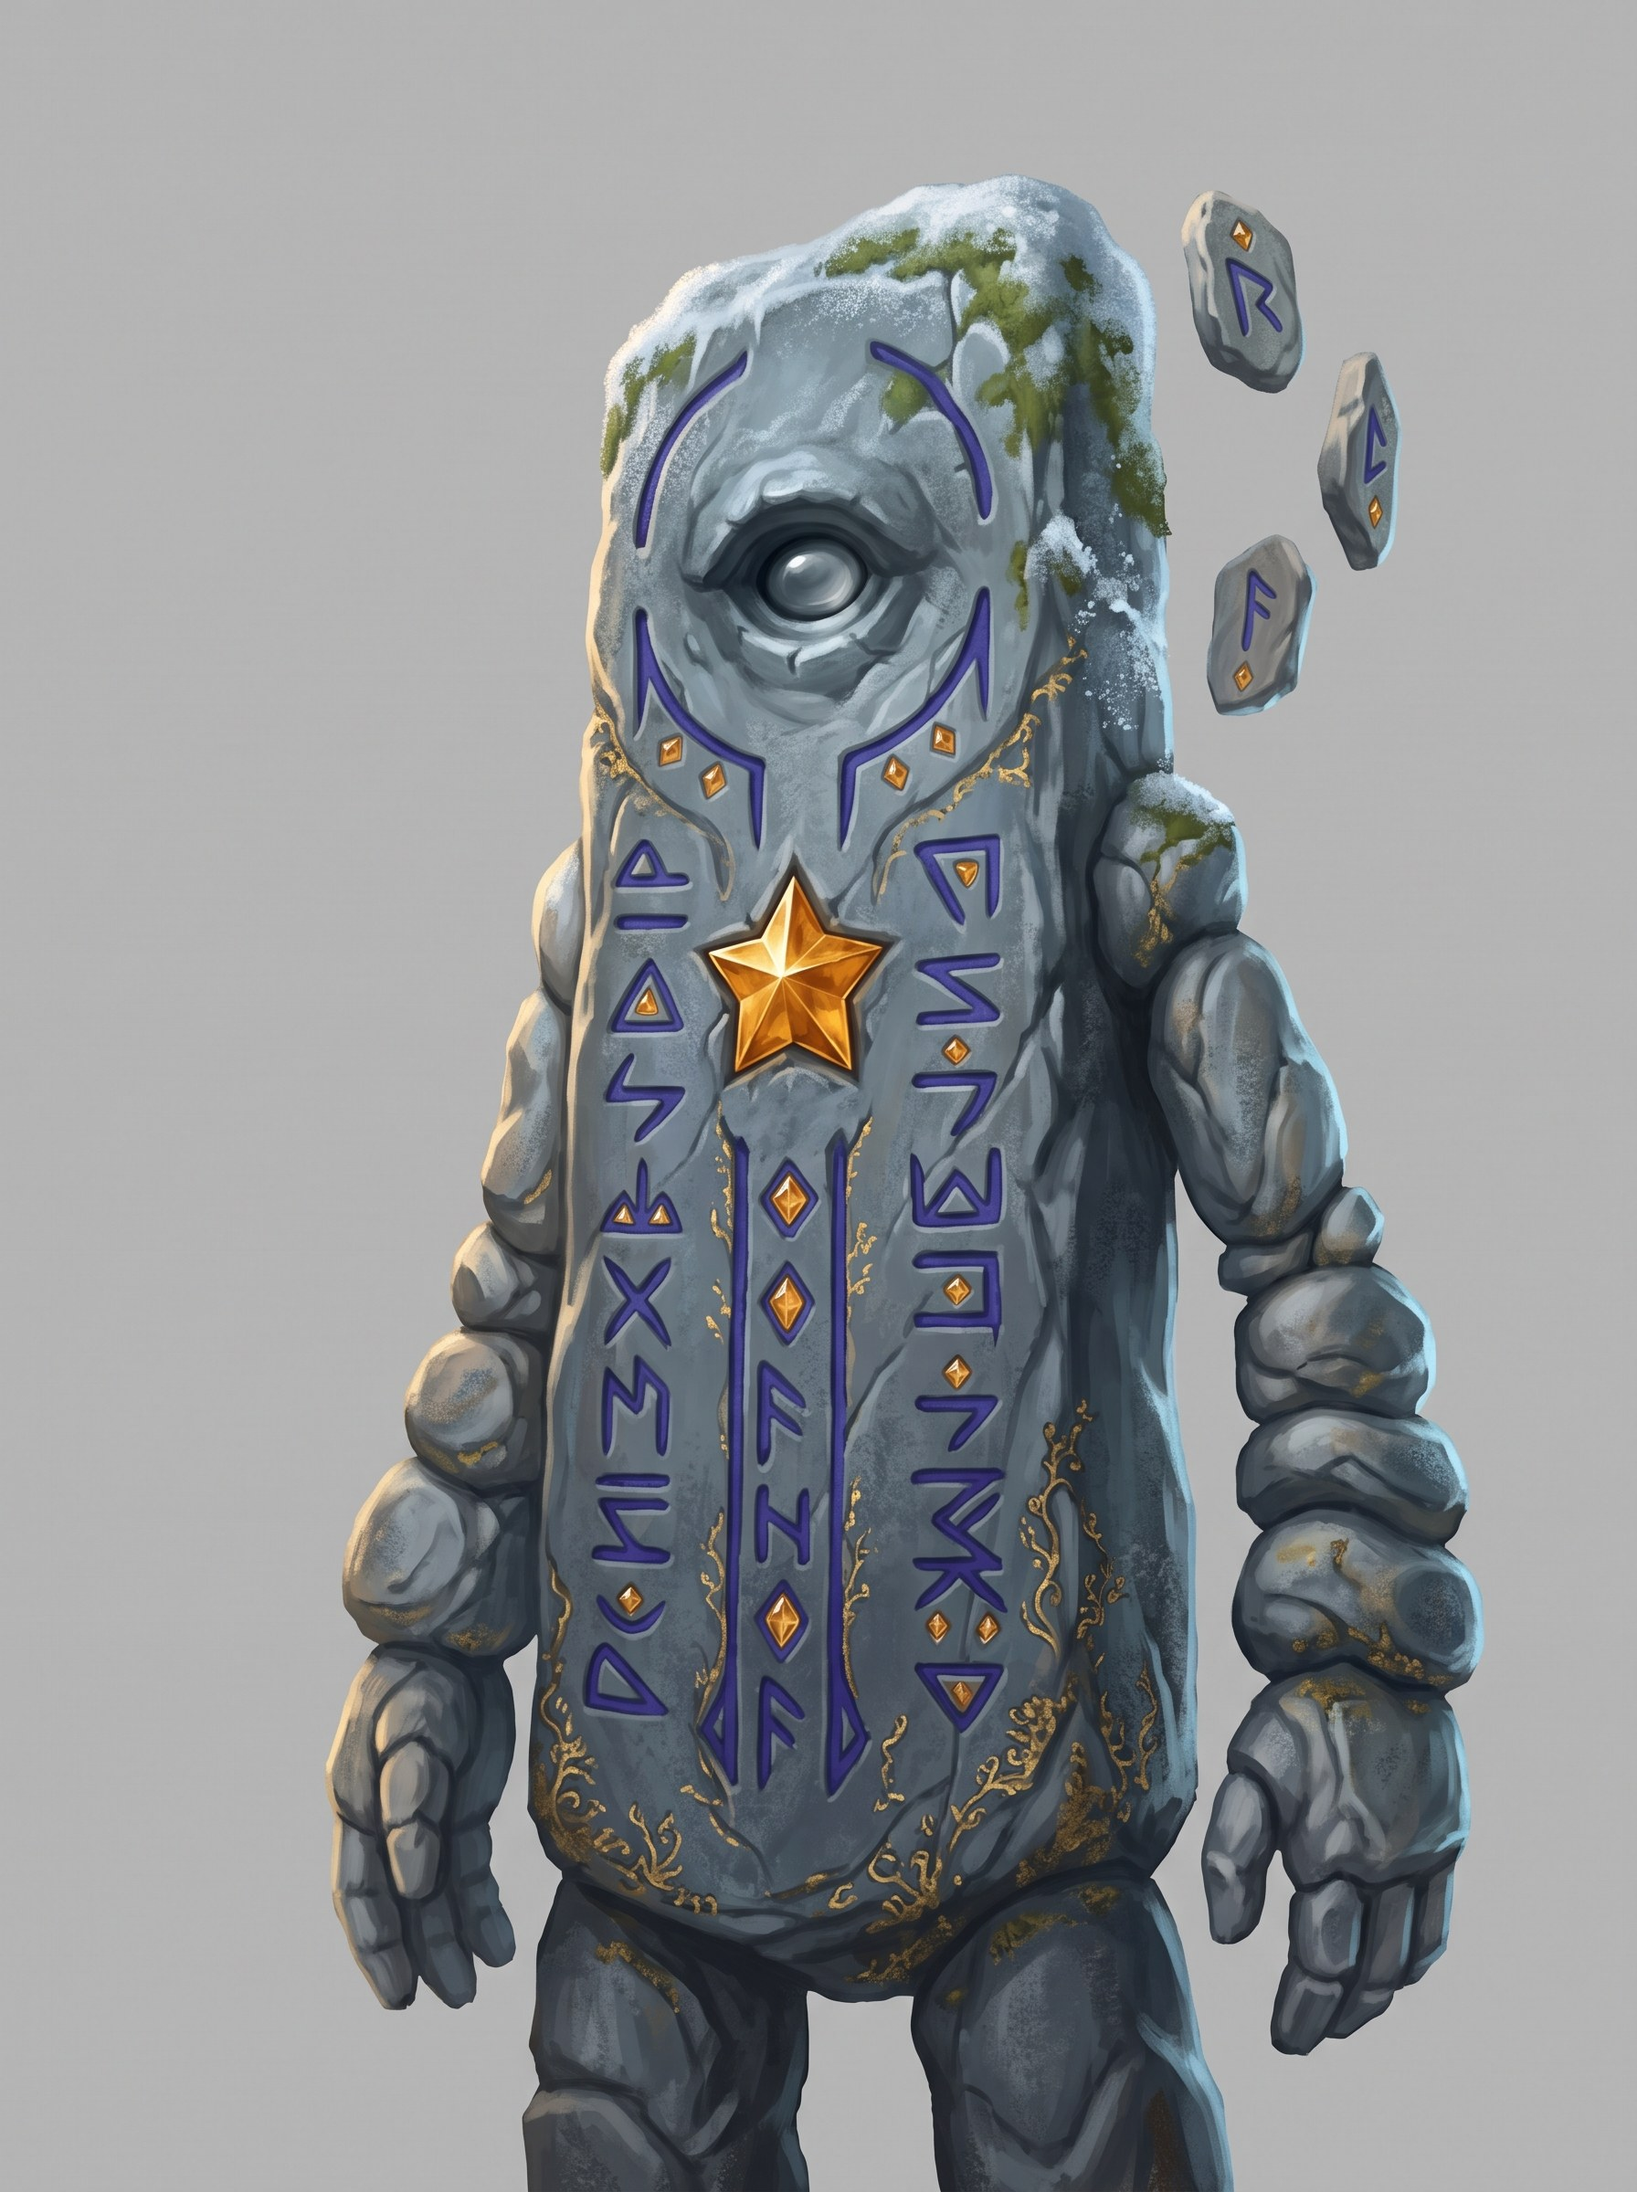
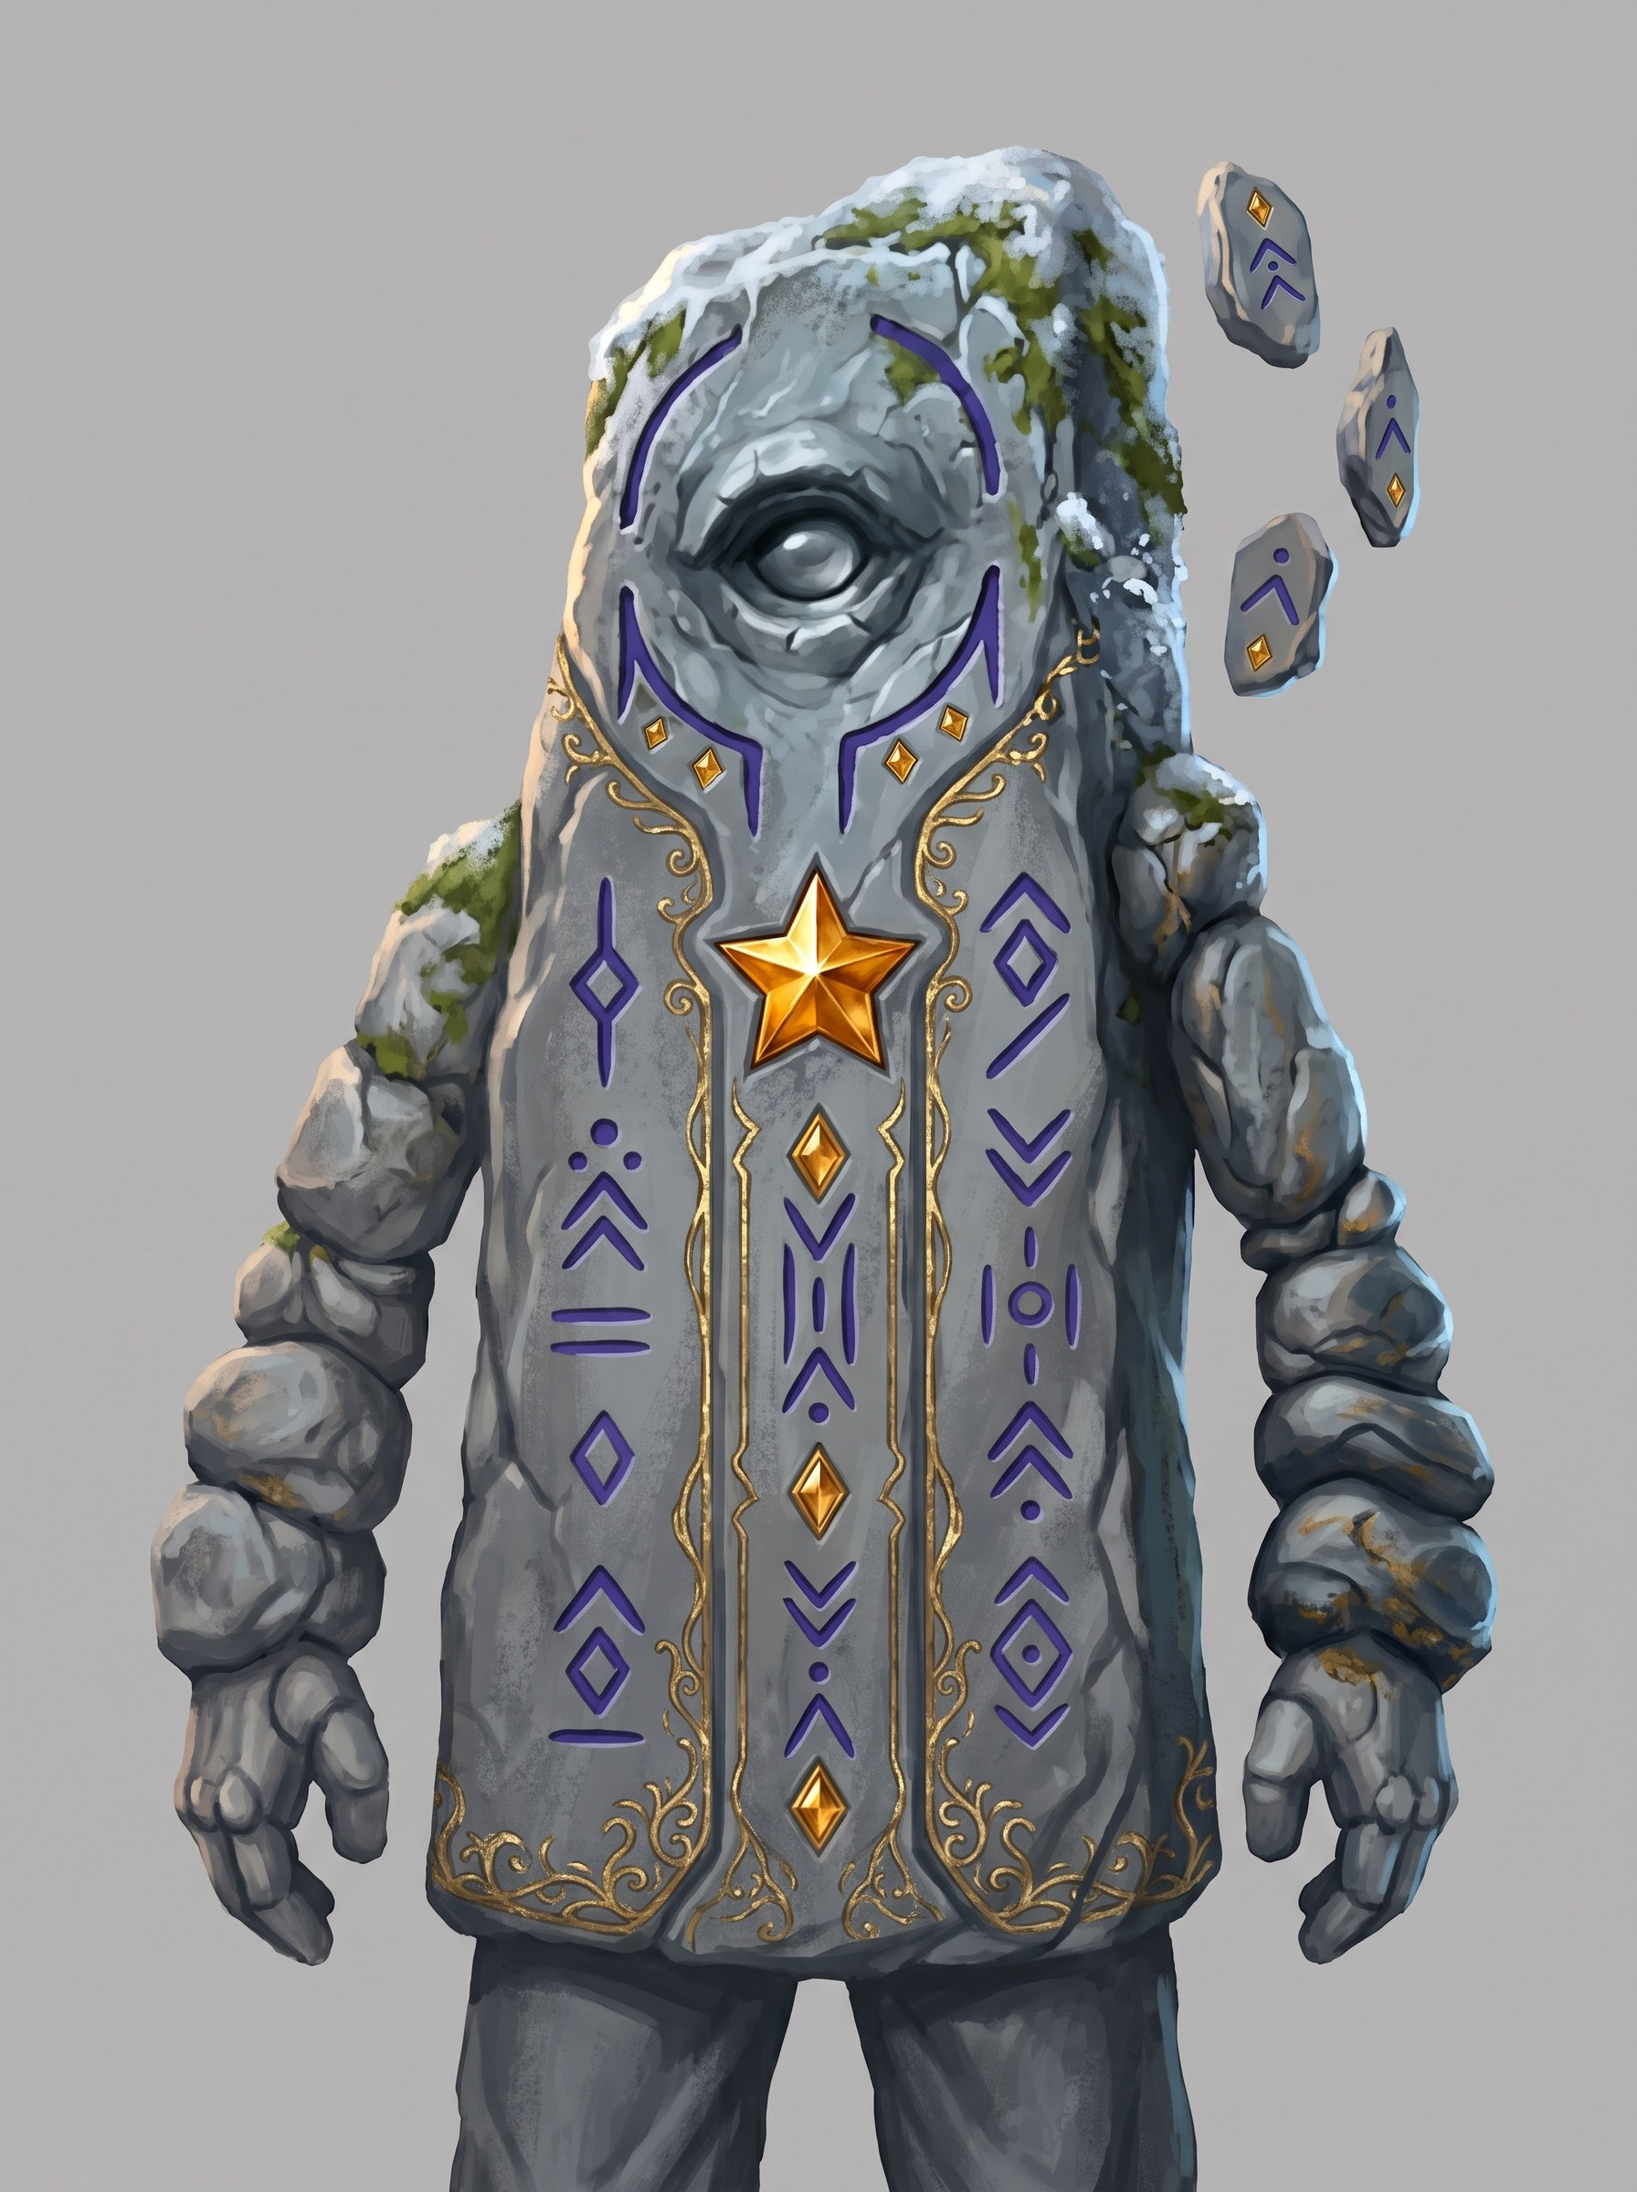
Crystal Rush art: Менгір's card redrawn with invented rune glyphs (the old ones read as R, F, M, X, N), framing nudged

diff --git a/crystal-rush/assets/heroes/menhir/README.md b/crystal-rush/assets/heroes/menhir/README.md
@@ -3,3 +3,6 @@
 - `card.png` — the 3:4 card (Gemini in the owner's browser, 2026-10-10, from the prompt in `docs/design/heroes_prompts.md`;
   1792x2400 source in `art_src/heroes/menhir/menhir_card_src.jpg`), scaled to 1152x1543, cut out (tools/art/cutlib.py).
 - `splash.png` — the same art (cameos and walkouts use the splash slot).
+- 2026-10-10, later: the card was redrawn in Gemini from itself with invented glyphs (lozenges, chevrons, dots, circles), because
+  the first version's runes read as the letters R, F, M, X and N; the eye, star, moss and tablets stay, and gold filigree now
+  lines the central groove. Framing in `HeroArt.META["menhir"]` moved to eyes at x 0.49, y 0.25.
